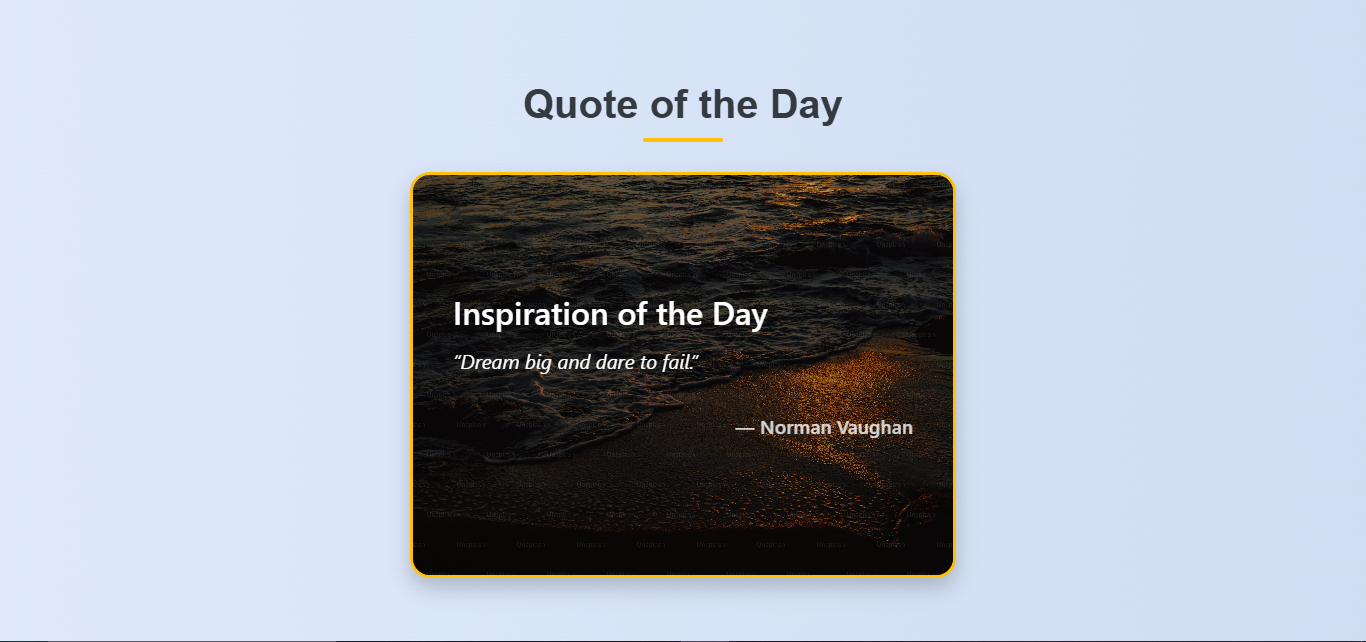
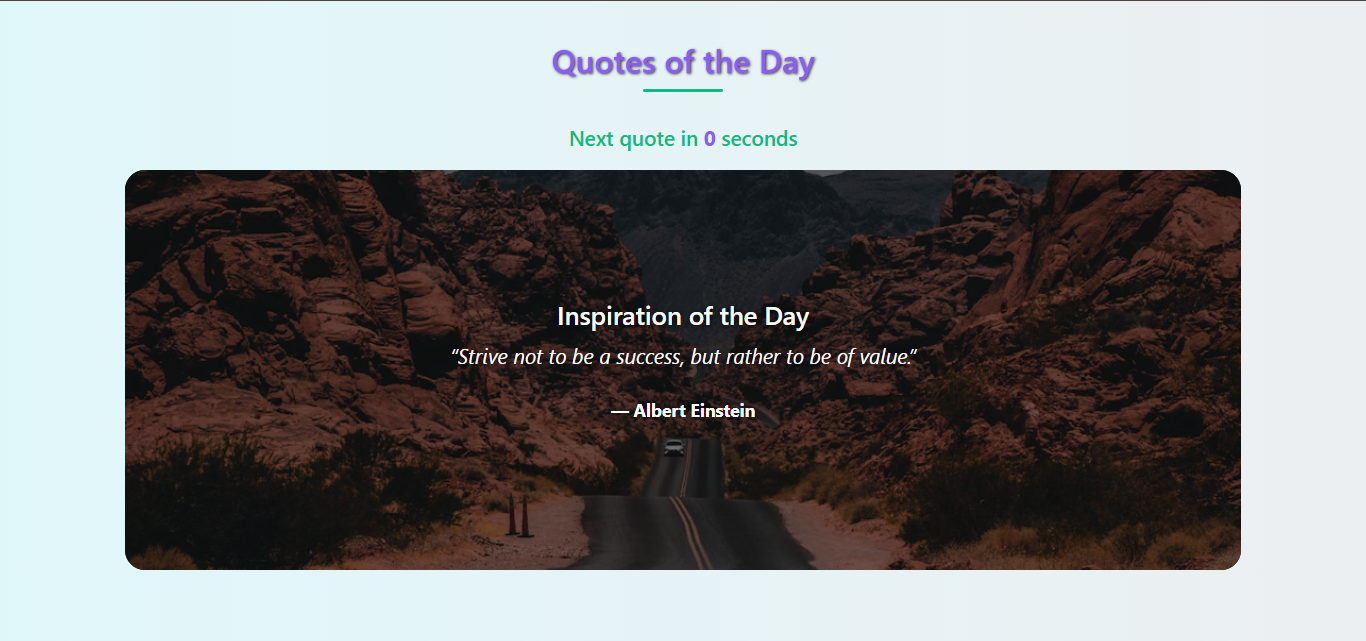
modify

diff --git a/script.js b/script.js
@@ -1,66 +1,36 @@
 const quotes = [
-    {
-      text: "The best way to predict the future is to create it.",
-      author: "Peter Drucker",
-      image: "https://images.unsplash.com/photo-1506784365847-bbad939e9335?auto=format&fit=crop&w=1050&q=80"
-    },
-    {
-      text: "Success is not in what you have, but who you are.",
-      author: "Bo Bennett",
-      image: "https://images.unsplash.com/photo-1517245386807-bb43f82c33c4?auto=format&fit=crop&w=1050&q=80"
-    },
-    {
-      text: "Your time is limited, so don’t waste it living someone else’s life.",
-      author: "Steve Jobs",
-      image: "https://t3.ftcdn.net/jpg/01/95/72/18/360_F_195721857_qwm4QSETlBFtCSKWW7kbNt3O5DRgAanr.jpg"
-    },
-    {
-      text: "Don’t watch the clock; do what it does. Keep going.",
-      author: "Sam Levenson",
-      image: "https://images.unsplash.com/photo-1507525428034-b723cf961d3e?auto=format&fit=crop&w=1050&q=80"
-    },
-    {
-      text: "Strive not to be a success, but rather to be of value.",
-      author: "Albert Einstein",
-      image: "https://images.unsplash.com/photo-1487014679447-9f8336841d58?auto=format&fit=crop&w=1050&q=80"
-    },
-    {
-      text: "Dream big and dare to fail.",
-      author: "Norman Vaughan",
-      image: "https://plus.unsplash.com/premium_photo-1675721719615-457c2f07958a?fm=jpg&q=60&w=3000&ixlib=rb-4.1.0&ixid=M3wxMjA3fDB8MHxzZWFyY2h8MXx8cXVvdGUlMjBiYWNrZ3JvdW5kfGVufDB8fDB8fHww"
-    },
-    {
-      text: "Act as if what you do makes a difference. It does.",
-      author: "William James",
-      image: "https://images.unsplash.com/photo-1494172961521-33799ddd43a5?auto=format&fit=crop&w=1050&q=80"
-    },
-    {
-      text: "Opportunities don't happen. You create them.",
-      author: "Chris Grosser",
-      image: "https://images.unsplash.com/photo-1496307042754-b4aa456c4a2d?auto=format&fit=crop&w=1050&q=80"
-    },
-    {
-      text: "Success is how high you bounce when you hit bottom.",
-      author: "George S. Patton",
-      image: "https://images.unsplash.com/photo-1461360370896-922624d12aa1?auto=format&fit=crop&w=1050&q=80"
-    },
-    {
-      text: "Believe you can and you're halfway there.",
-      author: "Theodore Roosevelt",
-      image: "https://t4.ftcdn.net/jpg/03/98/29/37/360_F_398293720_XOwzFWNaEG23Nm7ipWeKKWnwB7f5vImI.jpg"
-    }
-  ];
+  { text: "The best way to predict the future is to create it.", author: "Peter Drucker" },
+  { text: "Success is not in what you have, but who you are.", author: "Bo Bennett" },
+  { text: "Your time is limited, so don’t waste it living someone else’s life.", author: "Steve Jobs" },
+  { text: "Don’t watch the clock; do what it does. Keep going.", author: "Sam Levenson" },
+  { text: "Strive not to be a success, but rather to be of value.", author: "Albert Einstein" },
+  { text: "Dream big and dare to fail.", author: "Norman Vaughan" },
+  { text: "Act as if what you do makes a difference. It does.", author: "William James" },
+  { text: "Opportunities don't happen. You create them.", author: "Chris Grosser" },
+  { text: "Success is how high you bounce when you hit bottom.", author: "George S. Patton" },
+  { text: "Believe you can and you're halfway there.", author: "Theodore Roosevelt" }
+];
 
-  let index = 0;
+let index = 0;
+let countdown = 5;
 
-  const quoteText = document.querySelector(".quote-text");
-  const quoteAuthor = document.querySelector(".quote-author");
-  const quoteImage = document.querySelector(".card-img");
+const quoteText = document.querySelector(".quote-text");
+const quoteAuthor = document.querySelector(".quote-author");
+const timer = document.getElementById("countdown");
 
-  setInterval(() => {
+quoteText.textContent = `“${quotes[index].text}”`;
+quoteAuthor.textContent = `— ${quotes[index].author}`;
+timer.textContent = countdown;
+
+
+setInterval(() => {
+  countdown--;
+  timer.textContent = countdown;
+
+  if (countdown === 0) {
     index = (index + 1) % quotes.length;
     quoteText.textContent = `“${quotes[index].text}”`;
     quoteAuthor.textContent = `— ${quotes[index].author}`;
-    quoteImage.src = quotes[index].image;
-  }, 5000); 
-
+    countdown = 5; 
+  }
+}, 1000);

diff --git a/style.css b/style.css
@@ -1,88 +1,83 @@
 body {
-    background: linear-gradient(to right, #e0eafc, #cfdef3);
-    font-family: 'Segoe UI', sans-serif;
-    padding-top: 80px;
-    /* for space under fixed navbar */
-    min-height: 100vh;
-}
-
-/* Optional: for a subtle pattern overlay */
-body::before {
-    content: "";
-    position: fixed;
-    top: 0;
-    left: 0;
-    width: 100%;
-    height: 100%;
-    background-image: url('https://www.transparenttextures.com/patterns/white-wall-3.png');
-    opacity: 0.1;
-    z-index: -1;
+  background: linear-gradient(to right, #e0f7fa, #eceff1);
+  font-family: 'Segoe UI', sans-serif;
 }
 
 .heading {
-    font-family: 'Inter', sans-serif;
-    font-size: 2.5rem;
-    font-weight: 600;
-    text-align: center;
-    color: #343a40;
-    position: relative;
+  color: #8b5cf6; /* Dark purple (Tailwind's violet-500) */
+  text-align: center;
+  margin: 40px 0 20px;
+  font-size: 2rem;
+  text-shadow: 1px 1px 3px rgba(0, 0, 0, 0.8);
+  position: relative;
+  padding-bottom: 10px;
 }
 
 .heading::after {
-    content: '';
-    width: 80px;
-    height: 4px;
-    background-color: #ffc107;
-    display: block;
-    margin: 10px auto 0;
-    border-radius: 2px;
+  content: "";
+  width: 80px;
+  height: 3px;
+ background-color: #10b981;
+  display: block;
+  margin: 10px auto 0;
+  border-radius: 2px;
+}
+
+.timer-text {
+  font-size: 1.3rem;
+  color: #10b981; /* Emerald green */
+  text-align: center;
+  margin-top: 20px;
+  font-weight: 500;
+}
+
+#countdown {
+  font-weight: bold;
+  color: #8b5cf6;
+  font-size: 1.3rem;
+  transition: color 0.3s ease, transform 0.3s ease;
+}
+
+#countdown.reset {
+  animation: pulse 0.4s;
 }
 
 .quote-card {
+    border: none;
     border-radius: 20px;
     overflow: hidden;
-    box-shadow: 0 10px 20px rgba(0, 0, 0, 0.2);
     position: relative;
-    transition: transform 0.3s ease, box-shadow 0.3s ease;
-    margin-top: 30px;
-    border: 3px solid #ffc107;
-
 }
 
-.quote-card:hover {
-    transform: translateY(-5px);
-    box-shadow: 0 12px 25px rgba(0, 0, 0, 0.3);
-}
-
-.card-img {
+.quote-card .card-img {
+    filter: brightness(45%);
     height: 400px;
     object-fit: cover;
-    filter: brightness(0.6);
 }
 
-.card-img-overlay {
+.quote-card .card-img-overlay {
     display: flex;
     flex-direction: column;
     justify-content: center;
-    padding: 40px;
+    align-items: center;
     color: #fff;
+    text-shadow: 1px 1px 6px rgba(0, 0, 0, 1);
+    padding: 20px;
+    text-align: center;
 }
 
 .card-title {
-    font-size: 2rem;
-    font-weight: 600;
-    margin-bottom: 15px;
+    font-size: 1.6rem;
+    margin-bottom: 10px;
 }
 
 .quote-text {
-    font-size: 1.25rem;
+    font-size: 1.3rem;
     font-style: italic;
 }
 
 .quote-author {
-    text-align: end;
-    font-weight: 500;
-    margin-top: 20px;
-    font-size: 1.2rem;
-    opacity: 0.8;
+    font-size: 1.1rem;
+    font-weight: bold;
+    margin-top: 10px;
 }

diff --git a/index.html b/index.html
@@ -5,36 +5,32 @@
   <title>Quotes</title>
   <meta charset="utf-8" />
   <meta name="viewport" content="width=device-width, initial-scale=1" />
-
-  <!-- Bootstrap CSS -->
   <link href="https://cdn.jsdelivr.net/npm/bootstrap@5.3.2/dist/css/bootstrap.min.css" rel="stylesheet" />
-
-  <!-- Custom CSS -->
   <link rel="stylesheet" href="./style.css">
 </head>
 
 <body>
 
   <div class="container">
-    <div class="row justify-content-center">
-      <div class="col-md-8 col-lg-6 mx-auto">
-        <h2 class="heading">Quote of the Day</h2>
-        <div class="card text-bg-dark quote-card">
-          <img src="https://images.unsplash.com/photo-1506784365847-bbad939e9335?auto=format&fit=crop&w=1050&q=80" class="card-img" alt="Motivational Background">
-          <div class="card-img-overlay">
-            <h5 class="card-title">Inspiration of the Day</h5>
-            <p class="quote-text">“The best way to predict the future is to create it.”</p>
-            <p class="quote-author">— Peter Drucker</p>
-          </div>
-        </div>
+    <h2 class="heading">Quotes of the Day</h2>
+    <p class="timer-text">Next quote in <span id="countdown">5</span> seconds</p>
+    <div class="card text-bg-dark quote-card">
+      <img src="https://images.unsplash.com/photo-1500530855697-b586d89ba3ee?auto=format&fit=crop&w=1050&q=80"
+        class="card-img" alt="Motivational Background">
+      <div class="card-img-overlay">
+        <h5 class="card-title">Inspiration of the Day</h5>
+        <p class="quote-text">“The best way to predict the future is to create it.”</p>
+        <p class="quote-author">— Peter Drucker</p>
       </div>
     </div>
   </div>
 
   <!-- Bootstrap JS -->
-  <script src="https://cdn.jsdelivr.net/npm/@popperjs/core@2.11.8/dist/umd/popper.min.js"></script>
-  <script src="https://cdn.jsdelivr.net/npm/bootstrap@5.3.2/dist/js/bootstrap.min.js"></script>
+  <script src="https://cdn.jsdelivr.net/npm/bootstrap@5.3.2/dist/js/bootstrap.bundle.min.js"></script>
+
+  <!-- Quote JavaScript -->
   <script src="./script.js"></script>
+
 </body>
 
 </html>
